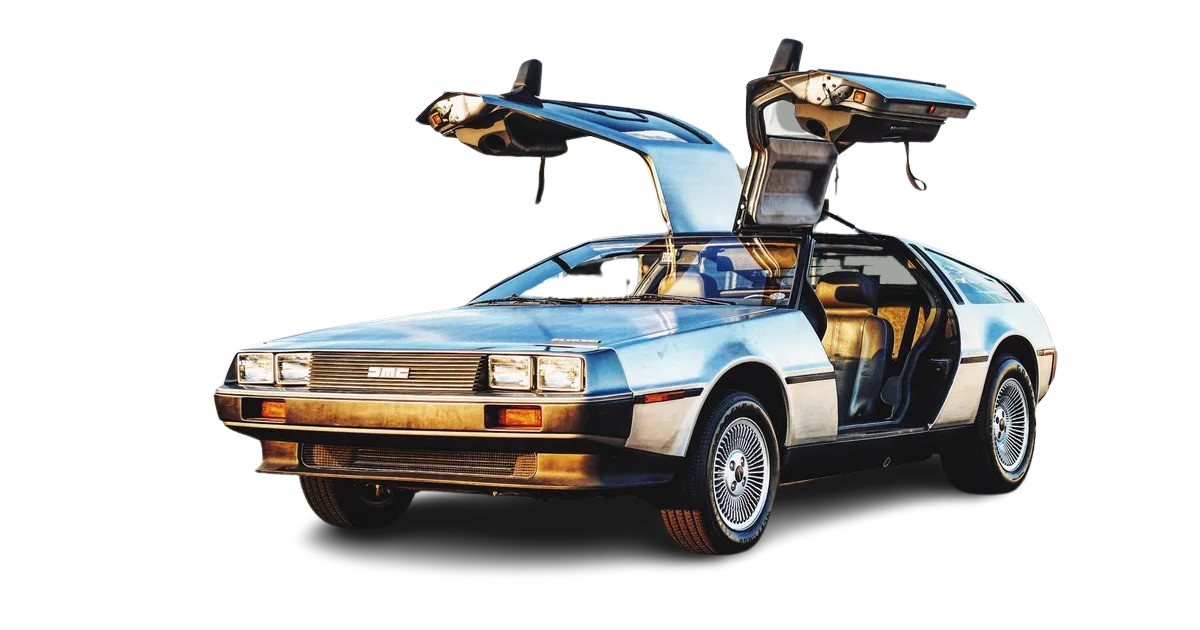
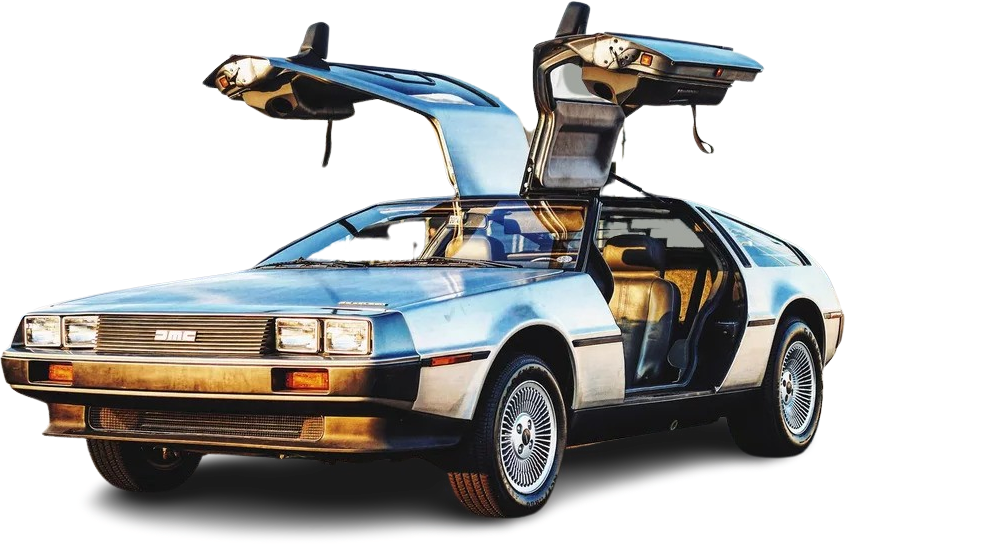
size adjusments

diff --git a/src/pages/Home.scss b/src/pages/Home.scss
@@ -1,18 +1,19 @@
 #homeGlobal {
+  height: calc(100vh - 148px);
+  display: flex;
+  align-items: center;
   // background-image: url("./assets/background.svg");
   // background-repeat: no-repeat;
-  // // height: calc(100vh - 6.74vh);
-  width: 100%;
 
   #deloreanTitle {
     display: flex;
-
-    margin: 5% 0 0 0;
+    // margin: 5% 0 0 0;
+    width: 100%;
     #titleAlone {
-      display: flex;
-      justify-content: center;
+      // display: flex;
+      // justify-content: center;
       text-align: start;
-      width: 100%;
+      width: 40%;
       height: auto;
       h1 {
         font-family: $content-font;
@@ -22,13 +23,14 @@
       #homeTitle {
         font-family: $second-title;
         font-weight: 400;
-        font-size: 5vw;
       }
     }
-
-    img {
-      width: 100%;
-      height: 100%;
+    #deloreanImg {
+      width: 60%;
+      text-align: end;
+      img {
+        width: 80%;
+      }
     }
   }
 }
@@ -38,22 +40,24 @@
     // margin: 45% 0 0 0;
     min-height: 80vh;
     display: flex;
-    justify-content: center;
     align-items: center;
     width: 100%;
     gap: 50px;
 
     #deloreanTitle {
       flex-direction: column-reverse;
-      justify-content: center;
+      align-items: flex-start;
+      margin: 0;
       #titleAlone {
+        width: 100%;
+        text-align: center;
+        margin: 0 0 60px 0;
         h1 {
           font-size: 10vw;
         }
-
-        #homeTitle {
-          font-size: 10vw;
-        }
+      }
+      #deloreanImg {
+        width: 100%;
       }
     }
   }

diff --git a/src/components/AboutCards.scss b/src/components/AboutCards.scss
@@ -8,7 +8,7 @@
   img {
     aspect-ratio: 1/1;
     object-fit: contain;
-    height: 75%;
+    height: 50%;
     padding: 0 10px 0 10px;
   }
   .aboutCards {
@@ -22,8 +22,10 @@
     border-radius: 15px;
     border: none;
     .aboutTitleImg {
-      text-align: center;
-      justify-content: center;
+      display: flex;
+      flex-direction: column;
+      align-items: center;
+      justify-content: space-evenly;
     }
     h2 {
       padding: 10px 10px 15px 10px;
@@ -31,7 +33,6 @@
       font-family: $content-font;
       font-weight: 200;
       font-size: 24px;
-      //   width: 50%;
     }
   }
 }
@@ -43,7 +44,6 @@
     img {
       aspect-ratio: 1/1;
       object-fit: contain;
-      height: 190px;
     }
     .aboutCards {
       width: 325px;

diff --git a/src/pages/Home.jsx b/src/pages/Home.jsx
@@ -1,5 +1,5 @@
-import NavBar from "../components/NavBar";
-import Footer from "../components/Footer";
+// import NavBar from "../components/NavBar";
+// import Footer from "../components/Footer";
 import delorean from "../assets/delorean.png";
 
 const Home = () => {
@@ -7,7 +7,9 @@ const Home = () => {
     <>
       <main id="homeGlobal">
         <div id="deloreanTitle">
-          <img src={delorean} alt="DeLorean" />
+          <div id="deloreanImg">
+            <img src={delorean} alt="DeLorean" />
+          </div>
           <div id="titleAlone">
             <h1>
               Développeur

diff --git a/src/pages/Projects.scss b/src/pages/Projects.scss
@@ -20,8 +20,8 @@
         background: #a68d65;
         // aspect-ratio: 16/9;
         object-fit: contain;
-        width: 5%;
-        height: 80px;
+        width: 100px;
+        height: 100px;
         border-radius: 15px;
         margin: 0 20px 0 20px;
       }
@@ -48,10 +48,6 @@
         align-items: center;
         width: 90%;
         height: 100%;
-        img {
-          width: 100px;
-          height: 100px;
-        }
         .projectsContentCards {
           align-items: center;
           h2 {

diff --git a/src/pages/Contact.jsx b/src/pages/Contact.jsx
@@ -1,8 +1,8 @@
 import { useState, useRef } from "react";
 import Swal from "sweetalert2";
 import emailjs from "@emailjs/browser";
-import NavBar from "../components/NavBar";
-import Footer from "../components/Footer";
+// import NavBar from "../components/NavBar";
+// import Footer from "../components/Footer";
 import linkedinLogo from "../assets/linkedin.png";
 import gitHubLogo from "../assets/github.png";
 import mailLogoBlack from "../assets/envelope-black.png";

diff --git a/src/pages/About.jsx b/src/pages/About.jsx
@@ -1,7 +1,7 @@
 import { useContext } from "react";
 import Context from "../components/Context";
-import NavBar from "../components/NavBar";
-import Footer from "../components/Footer";
+// import NavBar from "../components/NavBar";
+// import Footer from "../components/Footer";
 import mySelf from "../assets/me.png";
 import AboutCards from "../components/AboutCards";
 import ExperiencesCards from "../components/ExperiencesCards";

diff --git a/src/components/ExperiencesCards.scss b/src/components/ExperiencesCards.scss
@@ -48,7 +48,7 @@
       border: 2px solid #f3dfb9;
       border-radius: 15px;
       width: 30%;
-      height: 42vh;
+      height: 450px;
       margin: 5px 0 0 20px;
       li {
         font-family: $content-font;
@@ -67,6 +67,7 @@
         border: 2px solid #f3dfb9;
         border-radius: 15px;
         width: 28vw;
+        height: 137px;
         margin: 5px 0 20px 20px;
         padding: 0 0 5px 0;
       }

diff --git a/src/pages/Projects.jsx b/src/pages/Projects.jsx
@@ -1,7 +1,7 @@
 import { useContext } from "react";
 import Context from "../components/Context";
-import NavBar from "../components/NavBar";
-import Footer from "../components/Footer";
+// import NavBar from "../components/NavBar";
+// import Footer from "../components/Footer";
 
 const Projects = () => {
   const { projects } = useContext(Context);

diff --git a/src/components/EducationCards.scss b/src/components/EducationCards.scss
@@ -52,6 +52,7 @@
         border: 2px solid #f3dfb9;
         border-radius: 15px;
         width: 40vw;
+        height: 160px;
         margin: 5px 0 20px 20px;
         padding: 0 0 5px 0;
       }
